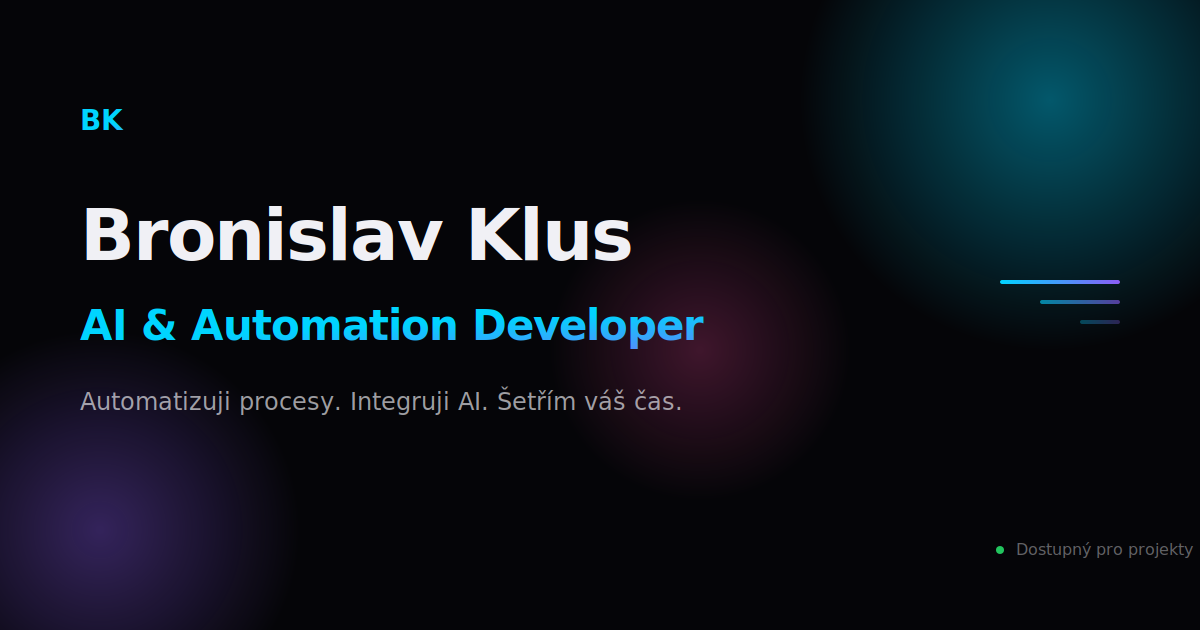
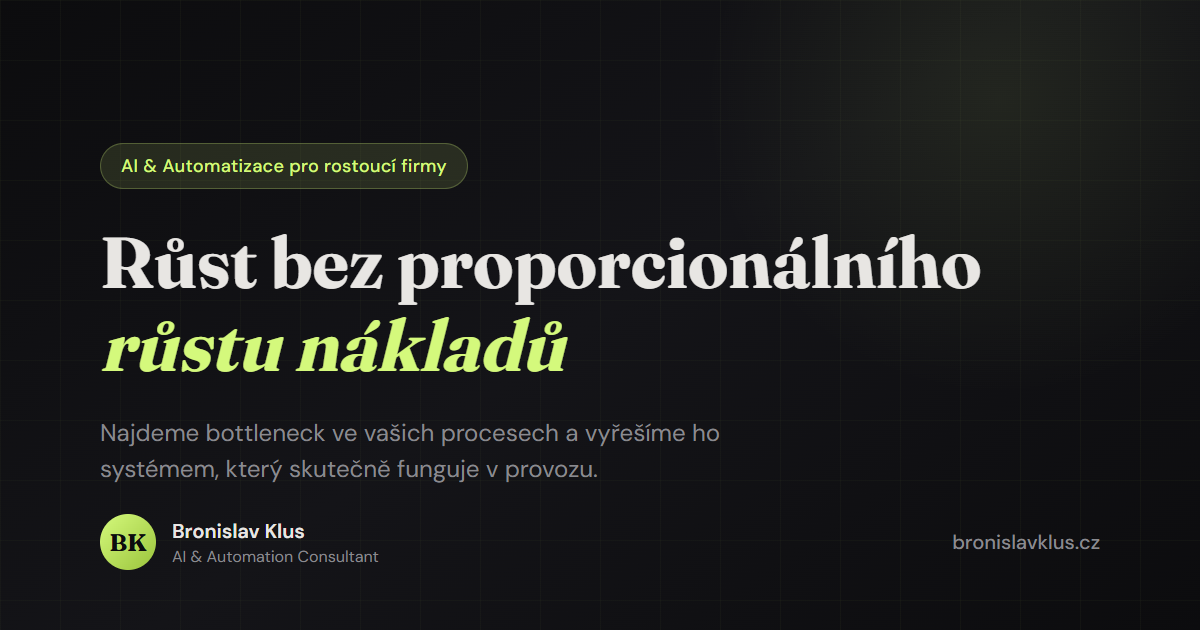
Add SEO meta tags, GA4 tracking, and update OG image
- Update title, description, keywords, author, robots, canonical
- Add GA4 with event tracking (Calendly, email, WhatsApp, scroll, time)
- Replace JSON-LD schema with Person + LocalBusiness
- Update OG image to new design

Changed region(s): [[0.0, 0.0, 1.0, 1.0], [0.0617, 0.1508, 0.4008, 0.3016], [0.7708, 0.8444, 0.9867, 0.9048]]

diff --git a/index.html b/index.html
@@ -3,8 +3,12 @@
 <head>
     <meta charset="UTF-8">
     <meta name="viewport" content="width=device-width, initial-scale=1.0">
-    <meta name="description" content="Pomáhám firmám růst bez proporcionálního růstu nákladů. Najdeme bottleneck, vyřešíme ho pomocí AI a uvolníme týmu 15-30% času.">
-    <title>Bronislav Klus — Růst bez proporcionálního růstu nákladů</title>
+    <title>Bronislav Klus | Konzultant pro automatizaci procesů a AI systémy | Brno</title>
+    <meta name="description" content="Bronislav Klus — konzultant pro automatizaci procesů a implementaci AI pro české SMB firmy s 10–100 zaměstnanci. Každý projekt osobně od analýzy po nasazení. Brno a celá ČR.">
+    <meta name="keywords" content="Bronislav Klus, automatizace procesů, AI konzultant, implementace AI, SMB, SME, malé a střední firmy, konzultant Brno, workflow automation, AI do firmy">
+    <meta name="author" content="Bronislav Klus">
+    <meta name="robots" content="index, follow">
+    <link rel="canonical" href="https://bronislavklus.cz/">
 
     <!-- Favicon & PWA -->
     <link rel="icon" type="image/svg+xml" href="favicon.svg">
@@ -12,31 +16,83 @@
 
     <!-- Open Graph -->
     <meta property="og:type" content="website">
-    <meta property="og:title" content="Bronislav Klus — Růst bez proporcionálního růstu nákladů">
-    <meta property="og:description" content="Najdeme spolu bottleneck ve vašich procesech a vyřešíme ho pomocí AI. Uvolníme týmu 15-30% času bez nových lidí a navyšování nákladů.">
+    <meta property="og:title" content="Bronislav Klus | Konzultant pro automatizaci a AI systémy">
+    <meta property="og:description" content="Pomáhám českým SMB firmám růst bez proporcionálního růstu nákladů. Automatizace procesů a AI systémy na míru — osobně vedené projekty.">
     <meta property="og:url" content="https://bronislavklus.cz">
     <meta property="og:locale" content="cs_CZ">
+    <meta property="og:image" content="https://bronislavklus.cz/og-image.png">
+    <meta property="og:image:width" content="1200">
+    <meta property="og:image:height" content="630">
+
+    <!-- Twitter Card -->
+    <meta name="twitter:card" content="summary_large_image">
+    <meta name="twitter:title" content="Bronislav Klus | Konzultant pro automatizaci a AI systémy">
+    <meta name="twitter:description" content="Pomáhám českým SMB firmám růst bez proporcionálního růstu nákladů. Automatizace procesů a AI systémy na míru.">
+    <meta name="twitter:image" content="https://bronislavklus.cz/og-image.png">
+
+    <!-- GA4 -->
+    <script async src="https://www.googletagmanager.com/gtag/js?id=G-WSH73PTSKL"></script>
+    <script>
+        window.dataLayer = window.dataLayer || [];
+        function gtag(){dataLayer.push(arguments);}
+        gtag('js', new Date());
+        gtag('config', 'G-WSH73PTSKL');
+    </script>
 
     <!-- Schema.org -->
     <script type="application/ld+json">
     {
         "@context": "https://schema.org",
-        "@type": "ProfessionalService",
-        "name": "Bronislav Klus - Růst bez proporcionálního růstu nákladů",
-        "description": "Pomáhám firmám růst bez proporcionálního růstu nákladů pomocí AI a automatizace procesů.",
-        "url": "https://bronislavklus.cz",
-        "email": "brona.klus@gmail.com",
-        "priceRange": "$$",
-        "serviceType": ["Process Automation", "AI Integration", "AI Systems", "Business Process Optimization"],
-        "areaServed": {
-            "@type": "Country",
-            "name": "Czech Republic"
-        },
-        "founder": {
-            "@type": "Person",
-            "name": "Bronislav Klus",
-            "jobTitle": "AI & Automation Consultant"
-        }
+        "@graph": [
+            {
+                "@type": "Person",
+                "name": "Bronislav Klus",
+                "givenName": "Bronislav",
+                "familyName": "Klus",
+                "jobTitle": "Konzultant pro automatizaci procesů a AI systémy na míru",
+                "description": "Pomáhám českým firmám s 10–100 zaměstnanci automatizovat manuální procesy a implementovat AI systémy na míru.",
+                "url": "https://bronislavklus.cz",
+                "email": "brona.klus@gmail.com",
+                "telephone": "+420777512923",
+                "address": {
+                    "@type": "PostalAddress",
+                    "addressLocality": "Brno",
+                    "addressRegion": "Jihomoravský kraj",
+                    "addressCountry": "CZ"
+                },
+                "knowsAbout": [
+                    "Automatizace procesů",
+                    "Implementace AI do firem",
+                    "AI konzultace pro SMB",
+                    "Workflow automation",
+                    "AI systémy pro malé a střední firmy",
+                    "Business process optimization"
+                ],
+                "sameAs": [
+                    "https://www.linkedin.com/in/bronislavklus"
+                ]
+            },
+            {
+                "@type": "LocalBusiness",
+                "name": "Bronislav Klus | AI & Automatizace",
+                "founder": "Bronislav Klus",
+                "url": "https://bronislavklus.cz",
+                "email": "brona.klus@gmail.com",
+                "telephone": "+420777512923",
+                "address": {
+                    "@type": "PostalAddress",
+                    "addressLocality": "Brno",
+                    "addressRegion": "Jihomoravský kraj",
+                    "addressCountry": "CZ"
+                },
+                "areaServed": {
+                    "@type": "Country",
+                    "name": "Česká republika"
+                },
+                "description": "Konzultace a implementace automatizace procesů a AI systémů pro české SMB a SME firmy.",
+                "priceRange": "Cena dle rozsahu projektu"
+            }
+        ]
     }
     </script>
 
@@ -2981,6 +3037,58 @@
 
             // Observe all fade-in elements
             document.querySelectorAll('.fade-in').forEach(el => observer.observe(el));
+        });
+    </script>
+
+    <!-- GA4 Event Tracking -->
+    <script>
+        // Calendly
+        document.querySelectorAll('a[href*="calendly"]').forEach(el => {
+            el.addEventListener('click', () => {
+                gtag('event', 'calendly_click', { event_category: 'contact', event_label: 'Calendly rezervace' });
+            });
+        });
+
+        // Email
+        document.querySelectorAll('a[href^="mailto"]').forEach(el => {
+            el.addEventListener('click', () => {
+                gtag('event', 'email_click', { event_category: 'contact', event_label: el.getAttribute('href') });
+            });
+        });
+
+        // WhatsApp
+        document.querySelectorAll('a[href*="whatsapp"], a[href*="wa.me"]').forEach(el => {
+            el.addEventListener('click', () => {
+                gtag('event', 'whatsapp_click', { event_category: 'contact', event_label: 'WhatsApp' });
+            });
+        });
+
+        // Formulář
+        const form = document.querySelector('form');
+        if (form) {
+            form.addEventListener('submit', () => {
+                gtag('event', 'form_submit', { event_category: 'contact', event_label: 'Kontaktní formulář' });
+            });
+        }
+
+        // Scroll depth
+        const scrollMilestones = [25, 50, 75, 90];
+        const reached = new Set();
+        window.addEventListener('scroll', () => {
+            const pct = Math.round((window.scrollY / (document.body.scrollHeight - window.innerHeight)) * 100);
+            scrollMilestones.forEach(m => {
+                if (pct >= m && !reached.has(m)) {
+                    reached.add(m);
+                    gtag('event', 'scroll_depth', { event_category: 'engagement', event_label: m + '%' });
+                }
+            });
+        });
+
+        // Čas na stránce
+        [30, 60, 120].forEach(sec => {
+            setTimeout(() => {
+                gtag('event', 'time_on_page', { event_category: 'engagement', event_label: sec + 's' });
+            }, sec * 1000);
         });
     </script>
 
